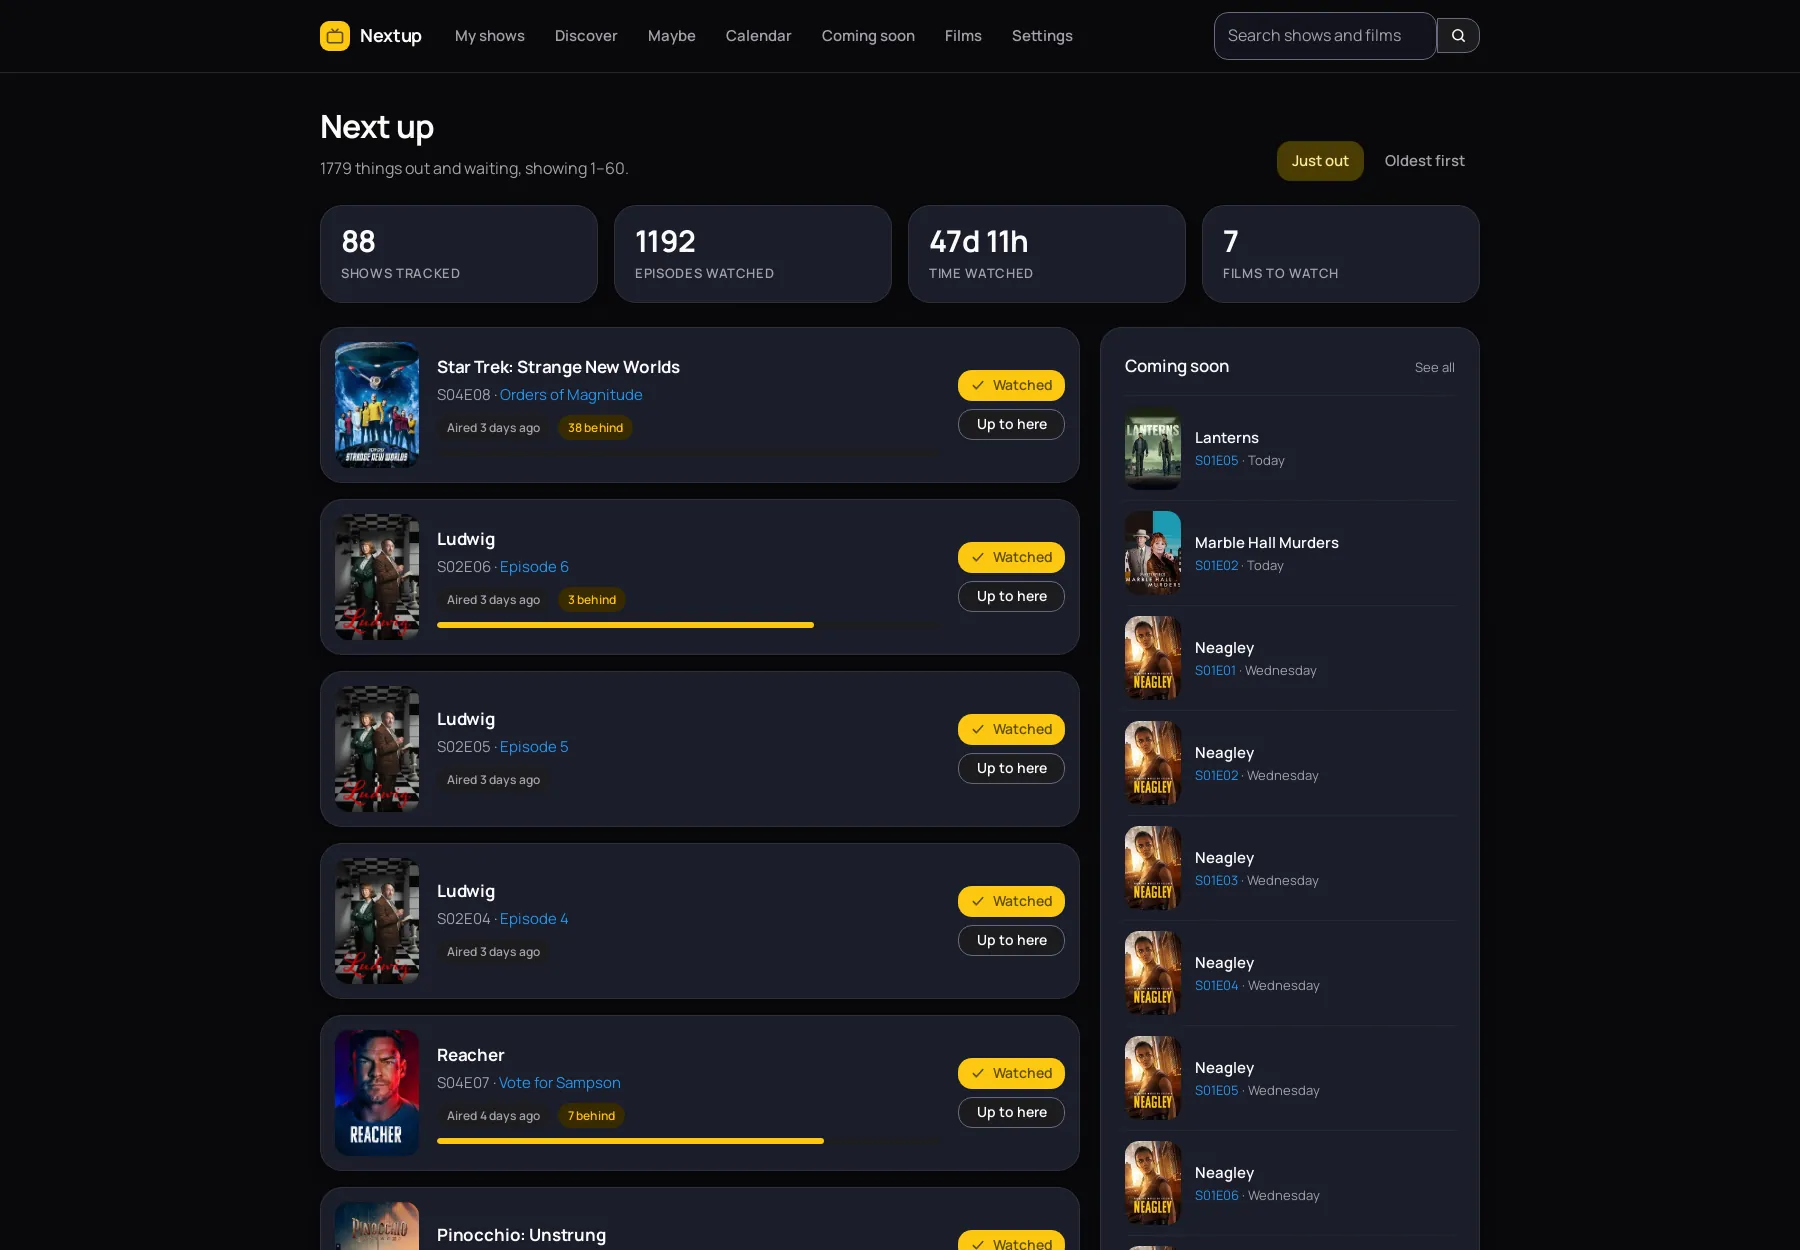
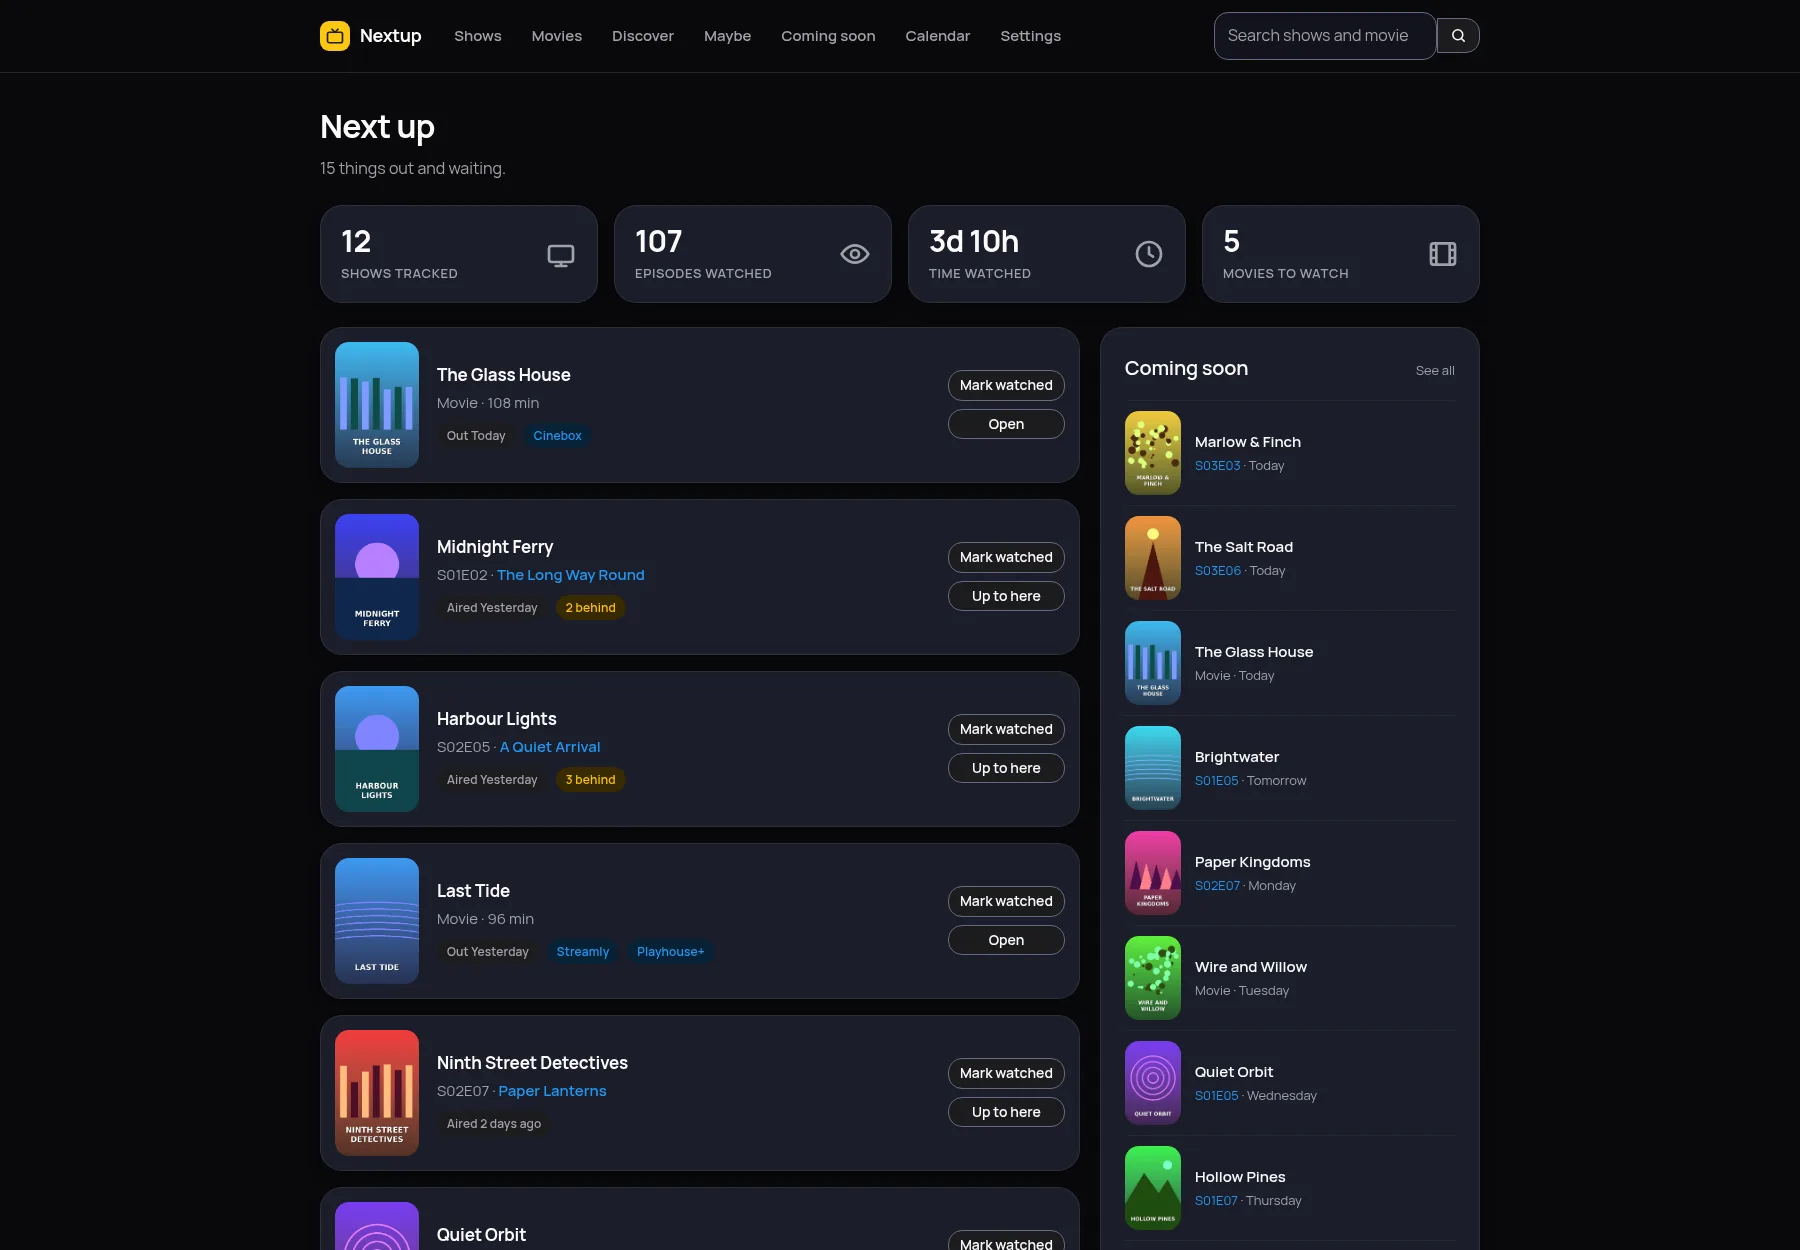
Website and README: new screenshots and text for 1.7.0

diff --git a/docs/index.html b/docs/index.html
@@ -150,7 +150,7 @@
   <figure>
     <div class="shot">
       <img src="images/nextup-dashboard.webp"
-           alt="The Nextup dashboard. A list of everything waiting, newest first, each line naming the episode or movie and the day it came out, with how far behind you are, a progress bar and a Watched button. A panel beside it lists episodes airing in the next few days."
+           alt="The Nextup dashboard. A list of everything waiting, newest first, each line naming the episode or movie and the day it came out, with how far behind you are and a Mark watched button. A panel beside it lists what is coming soon."
            width="1800" height="1250" fetchpriority="high" decoding="async">
     </div>
     <figcaption>The first screen. Everything that has come out and is still waiting, newest first, movies among the episodes.</figcaption>
@@ -192,7 +192,7 @@
       <figure>
         <div class="shot">
           <img src="images/nextup-show.webp"
-               alt="The Slow Horses page in Nextup, showing the poster, the cast, a details panel with network and episode count, and the first season's episodes listed, each with a button to mark it watched."
+               alt="A show page in Nextup, with the poster, a progress bar, buttons to move it to maybe, archive or remove it, the cast, a details panel, and the latest season's episodes listed below."
                width="1400" height="1283" loading="lazy" decoding="async">
         </div>
       </figure>
@@ -209,6 +209,13 @@
           cannot be marked by accident, and the progress bar counts only what has
           actually been broadcast, so a show is never quietly unfinished because
           of a Christmas special.
+        </p>
+        <p>
+          Archive a show you have put down and tick <b>Unarchive when a new season
+          arrives</b>. It comes back by itself the day a new season appears, so
+          you never miss a return. One <b>Order</b> setting sets newest or oldest
+          first across your lists, and settings save as you change them,
+          without the page reloading.
         </p>
       </div>
     </div>
@@ -231,12 +238,18 @@
           asking. A cross deletes nothing: the title still turns up in a search,
           and one button brings back everything you dismissed.
         </p>
+        <p>
+          Discover shows only what is new: the days you choose, then a second
+          group for what came out in the last 14 days. Each title carries its
+          original language, and the <b>Languages</b> setting decides which
+          ones you see. It starts on every language.
+        </p>
       </div>
       <figure>
         <div class="shot">
           <img src="images/nextup-discover.webp"
-               alt="The Discover page in Nextup, a grid of movie covers each with a plus, a question mark and a cross underneath."
-               width="1400" height="1089" loading="lazy" decoding="async">
+               alt="The Discover page in Nextup, a grid of movie covers, each with a language label and Yes, Maybe and No buttons underneath, and a second group headed Released in the last 14 days."
+               width="1400" height="1500" loading="lazy" decoding="async">
         </div>
       </figure>
     </div>
@@ -249,7 +262,7 @@
       <figure>
         <div class="shot">
           <img src="images/nextup-films.webp"
-               alt="The Movies page in Nextup, split into Ready to watch with service names under each cover, and Coming to streaming listing movies with the date they arrive."
+               alt="The Movies page in Nextup, with Ready to watch showing the services and the original language under each cover, then Coming to streaming below it."
                width="1400" height="1089" loading="lazy" decoding="async">
         </div>
       </figure>
@@ -285,7 +298,7 @@
         <figure>
           <div class="shot">
             <img src="images/nextup-calendar.webp"
-                 alt="A month calendar in Nextup with episodes marked in yellow and movies in blue on the days they arrive."
+                 alt="A month calendar in Nextup with episodes in yellow and movies in blue on the days they arrive."
                  width="1400" height="972" loading="lazy" decoding="async">
           </div>
         </figure>
@@ -300,7 +313,7 @@
         <figure>
           <div class="shot">
             <img src="images/nextup-maybe.webp"
-                 alt="The Maybe page in Nextup, a grid of covers for shows not currently being followed, each with a Start watching button."
+                 alt="The Maybe page in Nextup, a TV and Movies switch above a grid of covers for shows not being followed yet, each with a Start watching button."
                  width="1400" height="894" loading="lazy" decoding="async">
           </div>
         </figure>

diff --git a/README.md b/README.md
@@ -3,7 +3,7 @@
 </p>
 
 <p align="center">
-  <img src="https://img.shields.io/badge/version-1.7.0-fbc711?style=flat-square&labelColor=282b34" alt="Version 1.6.6" />
+  <img src="https://img.shields.io/badge/version-1.7.0-fbc711?style=flat-square&labelColor=282b34" alt="Version 1.7.0" />
   <img src="https://img.shields.io/badge/licence-GPL%20v3-7fd99a?style=flat-square&labelColor=282b34" alt="GPL v3" />
   <img src="https://img.shields.io/badge/image-ghcr.io-5eb6ff?style=flat-square&labelColor=282b34" alt="Image on ghcr.io" />
   <img src="https://img.shields.io/badge/tracking-none-c2c2cc?style=flat-square&labelColor=282b34" alt="No tracking" />
@@ -19,7 +19,7 @@ third party, and the only thing it ever calls out to is TMDB, to look up the
 shows and movies you asked for.
 
 <p align="center">
-  <img src="docs/images/nextup-dashboard.webp" alt="The Nextup dashboard listing shows with an episode waiting, each with a watched button and a progress bar" width="100%" />
+  <img src="docs/images/nextup-dashboard.webp" alt="The Nextup dashboard listing what is waiting, each with a Mark watched button, and what is coming soon beside it" width="100%" />
 </p>
 
 ## How it works
@@ -86,11 +86,16 @@ Pick the last episode you remember watching and press **Up to here**.
 Everything before it is marked watched in one go, which is how a show you started
 three years ago comes back under control. Episodes that have not aired cannot
 be marked by accident, and the progress bar counts only what has actually been
-broadcast.
+broadcast. Archive a show with **Unarchive when a new season arrives** ticked
+and it returns by itself when a new season appears.
+
+Discover shows only what is new, with each title's original language. The
+**Languages** setting chooses which ones you see, and **Order** sets newest or
+oldest first. Settings save as you change them, with no page reload.
 
 <table>
 <tr>
-<td width="50%"><img src="docs/images/nextup-show.webp" alt="A show page with its seasons, cast photographs and episode list" /></td>
+<td width="50%"><img src="docs/images/nextup-show.webp" alt="A show page with progress, cast, details and the latest season's episodes" /></td>
 <td width="50%"><img src="docs/images/nextup-calendar.webp" alt="The month at a glance, with episodes in yellow and movies in blue" /></td>
 </tr>
 <tr>
